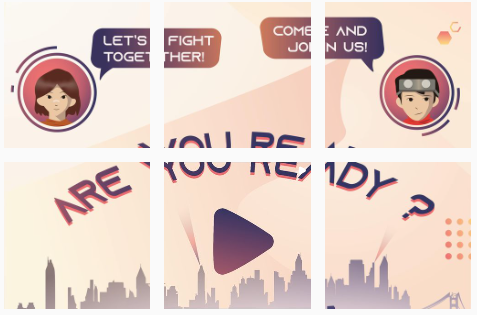
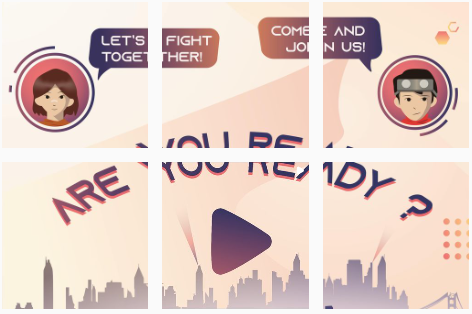
change img, add ico, styling

diff --git a/src/components/list/Projects.js b/src/components/list/Projects.js
@@ -1,8 +1,19 @@
 import ProjectItem from "../item/ProjectItem"
+import { useState } from "react";
 import Box from '@mui/material/Box';
 import Grid from '@mui/material/Grid';
+import Button from '@mui/material/Button';
+
+import {MdExpandMore, MdExpandLess} from 'react-icons/md';
 
 const Projects = ({ projects }) => {
+    const [showAllProjects, setShowAllProjects] = useState(false);
+    const handleMoreClick = () => {
+        setShowAllProjects(true);
+    }
+    const handleLessClick = () => {
+        setShowAllProjects(false);
+    }
 
     return (
         <Box id="projectContainer" sx={{ flexGrow: 1 }}
@@ -22,14 +33,49 @@ const Projects = ({ projects }) => {
             </h1>
             <Grid container spacing={{ xs: 2, md: 6 }} columns={{ xs: 2, sm: 2, md: 6 }}>
                 {projects.map((project, i) => 
-                    <Grid item xs={2} sm={2} md={3} key={i}>
-                        <ProjectItem
-                        key={project.id}
-                        project={project}
-                    />
-                    </Grid>
+                    showAllProjects
+                    ?   <Grid item xs={2} sm={2} md={3} key={i}>
+                            <ProjectItem
+                            key={project.id}
+                            project={project}
+                        />
+                        </Grid>
+                    : i < 4
+                        ?   <Grid item xs={2} sm={2} md={3} key={i}>
+                                <ProjectItem
+                                key={project.id}
+                                project={project}
+                            />
+                            </Grid>
+                        : null
+
                 )}
             </Grid>
+            {
+                showAllProjects === false
+                ?   <Button variant="outlined" onClick={handleMoreClick}
+                    style={{
+                        color: 'white',
+                        border: '2px solid white',
+                        borderRadius: '50px',
+                        background: 'rgb(0,0,0,0.1)',
+                        padding: '10px 15px 0 20px',
+                        marginTop: '50px'}}
+                    >
+                            <h5>More <MdExpandMore fontSize='40px'/></h5>
+                    </Button>
+                :   <Button variant="outlined" onClick={handleLessClick}
+                    style={{
+                        color: 'white',
+                        border: '2px solid white',
+                        borderRadius: '50px',
+                        background: 'rgb(0,0,0,0.1)',
+                        padding: '10px 15px 0 20px',
+                        marginTop: '50px'}}
+                    >
+                            <h5>Less <MdExpandLess fontSize='40px'/></h5>
+                    </Button>
+            }
         </Box>
     )
   }

diff --git a/public/index.html b/public/index.html
@@ -4,6 +4,7 @@
     <meta charset="utf-8" />
     <meta name="viewport" content="width=device-width, initial-scale=1" />
     <meta name="theme-color" content="#000000" />
+    <link rel="icon" type="image/x-icon" href="assets/favicon.ico" />
     <link
       rel="stylesheet"
       href="https://cdn.jsdelivr.net/npm/bootstrap@5.1.3/dist/css/bootstrap.min.css"
@@ -16,7 +17,7 @@
     <link rel="preconnect" href="https://fonts.gstatic.com" crossorigin>
     <link href="https://fonts.googleapis.com/css2?family=Cookie&family=Dancing+Script:wght@500;600;649&family=Kanit&family=Nunito&display=swap" rel="stylesheet">
   
-    <title>PORTFOLIZA</title>
+    <title>Portfoliza</title>
   </head>
   <body>
     <noscript>You need to enable JavaScript to run this app.</noscript>

diff --git a/src/components/home/Home.js b/src/components/home/Home.js
@@ -53,7 +53,7 @@ const Home = () => {
             </h1>
             <h2>I am  Putri Nurhaliza!</h2>
             <p style={{fontSize:"20px"}}>A 3rd year student who is passionate in Software Engineering.
-              Contributed to several projects of web/app development, robotics, and digital marketing.
+              Contributed to several projects of web/app development, digital marketing, and robotics.
               Able to work well in a team with leadership and fast learning skills.</p>
               <Tooltip title="LinkedIn">
                 <IconButton href="https://www.linkedin.com/in/putri-nurhaliza" target="_blank" rel="noreferrer">

diff --git a/src/components/item/ExperienceItem.js b/src/components/item/ExperienceItem.js
@@ -56,7 +56,7 @@ const ExperienceItem = ({ experience }) => {
                              experience.role.length === 0
                              ? null
                              : <>
-                                 <p>Role:</p>
+                                 <p style={{margin: 0}}>Role:</p>
                                  <ul>
                                      {experience.role.map((role, i) =>
                                          <li key={i}>{role}</li>

diff --git a/src/components/item/ProjectItem.js b/src/components/item/ProjectItem.js
@@ -31,7 +31,7 @@ const ProjectItem = ({ project }) => {
                             project.role.length === 0
                             ? null
                             : <>
-                                <p>Role:</p>
+                                <p style={{margin: 0}}>Role:</p>
                                 <ul>
                                     {project.role.map((role, i) =>
                                         <li key={i}>{role}</li>

diff --git a/src/components/nav/MyNav.js b/src/components/nav/MyNav.js
@@ -17,9 +17,7 @@ const MyNav = () => {
 	const offsetValue = -56;
 
 	const closeOffCanvas = () => {
-		if(offCanvasRef.current.backdrop === undefined || offCanvasRef.current.backdrop === null) {
-			console.log('offCanvasRef.current.backdrop is null');
-		} else {
+		if (!(offCanvasRef.current.backdrop === undefined || offCanvasRef.current.backdrop === null)) {
 			offCanvasRef.current.backdrop.click();
 		}
 	}
